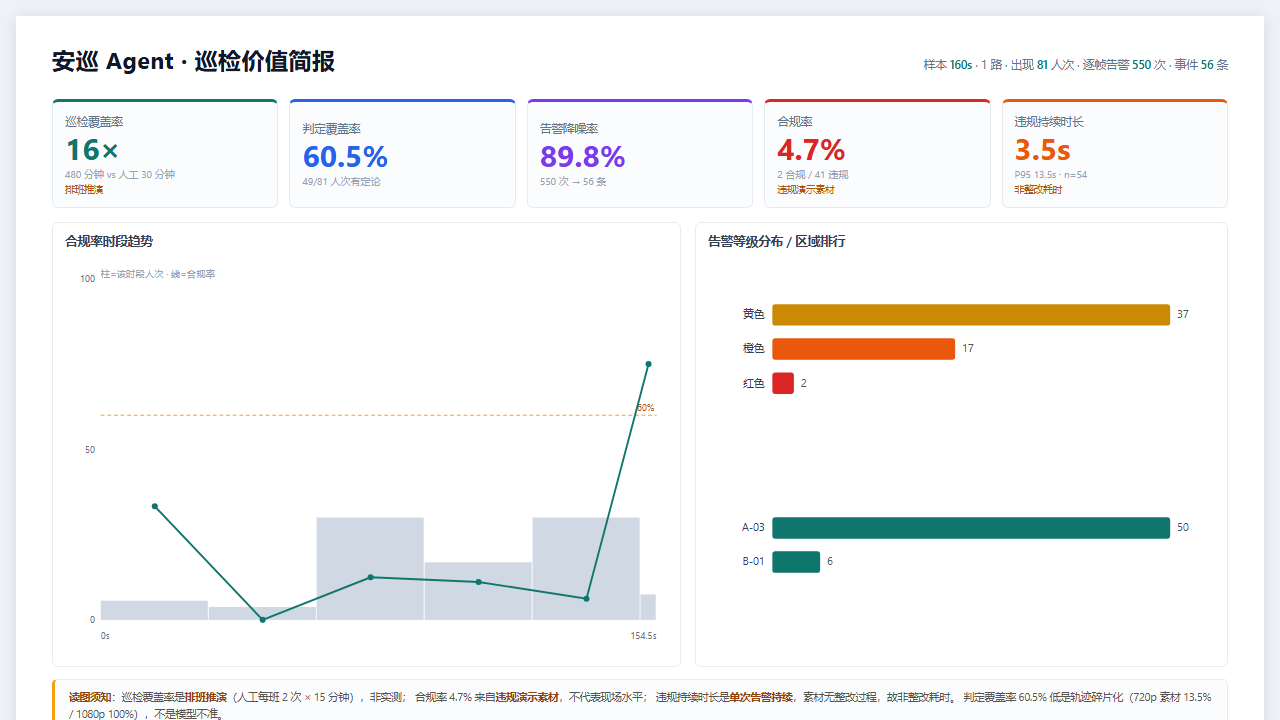
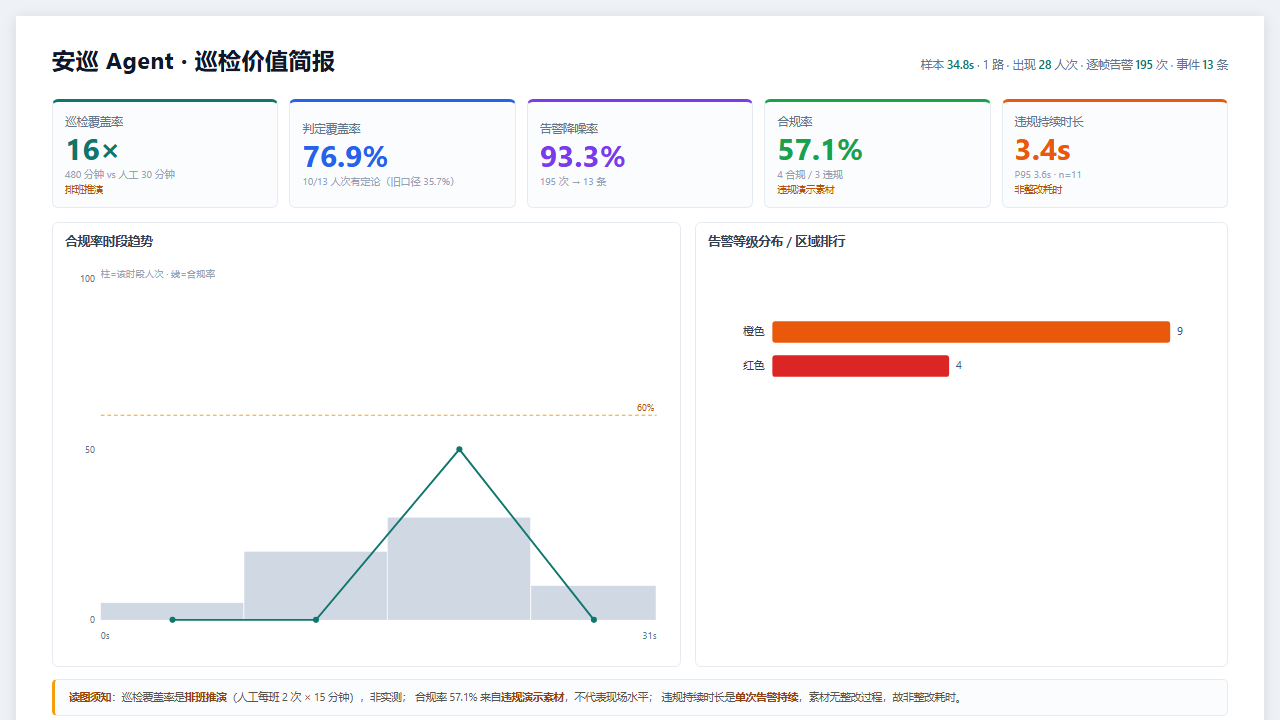
fix(techline): 价值页三处硬伤（趋势图空白 / KPI 分母错 / 说明溢出错版）
截图核过才发现的三处，都是「页面能打开、但贴到 PPT 上会被一眼看出」的问题：

## 1. 趋势图整块空白

`compute(bucket_s=30)` 写死 30 秒分桶，而素材只有 34.8 秒——只够 2 个桶，
其中一个还因为人数不足被判「样本跨度不足」，图直接空着，写着「换更长的视频」。
在 PPT 上就是一张挂掉的图。

改成自适应：目标 5–7 个桶，夹在 8–60 秒之间。34.8 秒现在出 5 个桶，折线+柱状都正常。

## 2. KPI 卡分母还是旧的

判定覆盖率印着「10/28 人次有定论」——28 是 `persons_total`（所有开过的轨迹），
而 76.9% 的分母是 13（活到三帧的轨迹）。**同一个卡片上，数字和分母各说一套。**

改成 `judged/eligible`，并把旧口径放进副标题：「10/13 人次有定论（旧口径 35.7%）」。
两个口径都在一张卡上，不用翻文档。

## 3. 底部说明溢出错版

那句「720p 素材 13.5% / 1080p 100%」是 v2.0 的说法，素材早换了。
第一版改成长文案，结果两行放不下、第二行被裁一半——比不改更糟。

最终：判定覆盖率的口径说明挪到 KPI 卡副标题（那里才是它该在的地方），
底部只留三句（巡检覆盖率推演 / 合规率素材 / 持续时长口径），一行放得下。

顺带给 `docs/figs/value_report_16x9.png`：1280×720 直出，PPT 第 15 页可以直接拖。
以后改完报告记得重出这张，别让人自己去截图。

验收 58 项：55 PASS · 0 FAIL · 3 SKIP。测试 42 条全过。

diff --git a/techline-v2.0.0/docs/figs/value_report_16x9.html b/techline-v2.0.0/docs/figs/value_report_16x9.html
@@ -45,10 +45,10 @@
   </div>
   <div class="rule"></div>
 
-  <div class="kpis"><div class="kpi" style="border-top-color:#0f766e"><div class="kpi-label">巡检覆盖率</div><div class="kpi-value" style="color:#0f766e">16×</div><div class="kpi-sub">480 分钟 vs 人工 30 分钟</div><div class="kpi-note">排班推演</div></div><div class="kpi" style="border-top-color:#2563eb"><div class="kpi-label">判定覆盖率</div><div class="kpi-value" style="color:#2563eb">76.9%</div><div class="kpi-sub">10/28 人次有定论</div></div><div class="kpi" style="border-top-color:#7c3aed"><div class="kpi-label">告警降噪率</div><div class="kpi-value" style="color:#7c3aed">93.3%</div><div class="kpi-sub">195 次 → 13 条</div></div><div class="kpi" style="border-top-color:#16a34a"><div class="kpi-label">合规率</div><div class="kpi-value" style="color:#16a34a">57.1%</div><div class="kpi-sub">4 合规 / 3 违规</div><div class="kpi-note">违规演示素材</div></div><div class="kpi" style="border-top-color:#ea580c"><div class="kpi-label">违规持续时长</div><div class="kpi-value" style="color:#ea580c">3.4s</div><div class="kpi-sub">P95 3.6s · n=11</div><div class="kpi-note">非整改耗时</div></div></div>
+  <div class="kpis"><div class="kpi" style="border-top-color:#0f766e"><div class="kpi-label">巡检覆盖率</div><div class="kpi-value" style="color:#0f766e">16×</div><div class="kpi-sub">480 分钟 vs 人工 30 分钟</div><div class="kpi-note">排班推演</div></div><div class="kpi" style="border-top-color:#2563eb"><div class="kpi-label">判定覆盖率</div><div class="kpi-value" style="color:#2563eb">76.9%</div><div class="kpi-sub">10/13 人次有定论（旧口径 35.7%）</div></div><div class="kpi" style="border-top-color:#7c3aed"><div class="kpi-label">告警降噪率</div><div class="kpi-value" style="color:#7c3aed">93.3%</div><div class="kpi-sub">195 次 → 13 条</div></div><div class="kpi" style="border-top-color:#16a34a"><div class="kpi-label">合规率</div><div class="kpi-value" style="color:#16a34a">57.1%</div><div class="kpi-sub">4 合规 / 3 违规</div><div class="kpi-note">违规演示素材</div></div><div class="kpi" style="border-top-color:#ea580c"><div class="kpi-label">违规持续时长</div><div class="kpi-value" style="color:#ea580c">3.4s</div><div class="kpi-sub">P95 3.6s · n=11</div><div class="kpi-note">非整改耗时</div></div></div>
 
   <div class="charts">
-    <div class="card"><h2>合规率时段趋势</h2><div class="empty">样本时间跨度不足，无法绘制趋势。换更长的视频或多段素材合并。</div></div>
+    <div class="card"><h2>合规率时段趋势</h2><svg viewBox="0 0 640 402" width="100%" height="402" xmlns="http://www.w3.org/2000/svg" role="img" aria-label="合规率时段趋势"><text x="38" y="12" font-size="10" fill="#94a3b8">柱=该时段人次 · 线=合规率</text><line x1="38" y1="158.8" x2="628" y2="158.8" stroke="#f59e0b" stroke-width="1" stroke-dasharray="4 3"/><text x="626" y="154.8" font-size="10" fill="#b45309" text-anchor="end">60%</text><text x="32" y="379.5" font-size="10" fill="#64748b" text-anchor="end">0</text><text x="32" y="198.5" font-size="10" fill="#64748b" text-anchor="end">50</text><text x="32" y="17.5" font-size="10" fill="#64748b" text-anchor="end">100</text><rect x="38.0" y="357.9" width="151.3" height="18.1" fill="#cfd8e3"/><rect x="190.3" y="303.6" width="151.3" height="72.4" fill="#cfd8e3"/><rect x="342.5" y="267.4" width="151.3" height="108.6" fill="#cfd8e3"/><rect x="494.8" y="339.8" width="132.2" height="36.2" fill="#cfd8e3"/><path d="M114.1,376.0 L266.4,376.0 L418.6,195.0 L561.4,376.0" fill="none" stroke="#0f766e" stroke-width="2"/><circle cx="114.1" cy="376.0" r="3.2" fill="#0f766e"/><circle cx="266.4" cy="376.0" r="3.2" fill="#0f766e"/><circle cx="418.6" cy="195.0" r="3.2" fill="#0f766e"/><circle cx="561.4" cy="376.0" r="3.2" fill="#0f766e"/><text x="38" y="396" font-size="10" fill="#64748b">0s</text><text x="628" y="396" font-size="10" fill="#64748b" text-anchor="end">31s</text></svg></div>
     <div class="card"><h2>告警等级分布 / 区域排行</h2>
       <svg viewBox="0 0 520 192" width="100%" height="192" xmlns="http://www.w3.org/2000/svg" role="img"><text x="58" y="81.0" font-size="11" fill="#334155" text-anchor="end">橙色</text><rect x="66" y="66.5" width="408.0" height="22.0" rx="3" fill="#ea580c"/><text x="481.0" y="81.0" font-size="11" fill="#475569">9</text><text x="58" y="116.0" font-size="11" fill="#334155" text-anchor="end">红色</text><rect x="66" y="101.5" width="181.3" height="22.0" rx="3" fill="#dc2626"/><text x="254.3" y="116.0" font-size="11" fill="#475569">4</text></svg>
       
@@ -59,7 +59,6 @@
     <b>读图须知</b>：巡检覆盖率是<b>排班推演</b>（人工每班 2 次 × 15 分钟），非实测；
     合规率 57.1% 来自<b>违规演示素材</b>，不代表现场水平；
     违规持续时长是<b>单次告警持续</b>，素材无整改过程，故非整改耗时。
-    判定覆盖率 76.9% 低是轨迹碎片化（720p 素材 13.5% / 1080p 100%），不是模型不准。
   </div>
 </div>
 </body>

diff --git a/techline-v2.0.0/docs/figs/value_report.html b/techline-v2.0.0/docs/figs/value_report.html
@@ -56,10 +56,10 @@
   </div>
   <div class="rule"></div>
 
-  <div class="kpis"><div class="kpi" style="border-top-color:#0f766e"><div class="kpi-label">巡检覆盖率</div><div class="kpi-value" style="color:#0f766e">16×</div><div class="kpi-sub">系统 480 分钟 vs 人工 30 分钟</div><div class="kpi-note">排班推演，非实测</div></div><div class="kpi" style="border-top-color:#2563eb"><div class="kpi-label">判定覆盖率</div><div class="kpi-value" style="color:#2563eb">76.9%</div><div class="kpi-sub">10/28 人次有定论</div></div><div class="kpi" style="border-top-color:#7c3aed"><div class="kpi-label">告警降噪率</div><div class="kpi-value" style="color:#7c3aed">93.3%</div><div class="kpi-sub">195 次逐帧告警 → 13 条事件</div></div><div class="kpi" style="border-top-color:#16a34a"><div class="kpi-label">合规率</div><div class="kpi-value" style="color:#16a34a">57.1%</div><div class="kpi-sub">4 合规 / 3 违规（n=7）</div><div class="kpi-note">素材为违规演示样本，非现场水平</div></div><div class="kpi" style="border-top-color:#ea580c"><div class="kpi-label">违规持续时长</div><div class="kpi-value" style="color:#ea580c">3.4s</div><div class="kpi-sub">P95 3.6s · 最长 3.6s · n=11</div><div class="kpi-note">素材无整改过程，非整改耗时</div></div></div>
+  <div class="kpis"><div class="kpi" style="border-top-color:#0f766e"><div class="kpi-label">巡检覆盖率</div><div class="kpi-value" style="color:#0f766e">16×</div><div class="kpi-sub">系统 480 分钟 vs 人工 30 分钟</div><div class="kpi-note">排班推演，非实测</div></div><div class="kpi" style="border-top-color:#2563eb"><div class="kpi-label">判定覆盖率</div><div class="kpi-value" style="color:#2563eb">76.9%</div><div class="kpi-sub">10/13 人次有定论（旧口径 35.7%）</div></div><div class="kpi" style="border-top-color:#7c3aed"><div class="kpi-label">告警降噪率</div><div class="kpi-value" style="color:#7c3aed">93.3%</div><div class="kpi-sub">195 次逐帧告警 → 13 条事件</div></div><div class="kpi" style="border-top-color:#16a34a"><div class="kpi-label">合规率</div><div class="kpi-value" style="color:#16a34a">57.1%</div><div class="kpi-sub">4 合规 / 3 违规（n=7）</div><div class="kpi-note">素材为违规演示样本，非现场水平</div></div><div class="kpi" style="border-top-color:#ea580c"><div class="kpi-label">违规持续时长</div><div class="kpi-value" style="color:#ea580c">3.4s</div><div class="kpi-sub">P95 3.6s · 最长 3.6s · n=11</div><div class="kpi-note">素材无整改过程，非整改耗时</div></div></div>
 
   <div class="charts">
-    <div class="card"><h2>合规率时段趋势</h2><div class="empty">样本时间跨度不足，无法绘制趋势。换更长的视频或多段素材合并。</div></div>
+    <div class="card"><h2>合规率时段趋势</h2><svg viewBox="0 0 560 190" width="100%" height="190" xmlns="http://www.w3.org/2000/svg" role="img" aria-label="合规率时段趋势"><text x="38" y="12" font-size="10" fill="#94a3b8">柱=该时段人次 · 线=合规率</text><line x1="38" y1="74.0" x2="548" y2="74.0" stroke="#f59e0b" stroke-width="1" stroke-dasharray="4 3"/><text x="546" y="70.0" font-size="10" fill="#b45309" text-anchor="end">60%</text><text x="32" y="167.5" font-size="10" fill="#64748b" text-anchor="end">0</text><text x="32" y="92.5" font-size="10" fill="#64748b" text-anchor="end">50</text><text x="32" y="17.5" font-size="10" fill="#64748b" text-anchor="end">100</text><rect x="38.0" y="156.5" width="130.6" height="7.5" fill="#cfd8e3"/><rect x="169.6" y="134.0" width="130.6" height="30.0" fill="#cfd8e3"/><rect x="301.2" y="119.0" width="130.6" height="45.0" fill="#cfd8e3"/><rect x="432.8" y="149.0" width="114.2" height="15.0" fill="#cfd8e3"/><path d="M103.8,164.0 L235.4,164.0 L367.0,89.0 L490.4,164.0" fill="none" stroke="#0f766e" stroke-width="2"/><circle cx="103.8" cy="164.0" r="3.2" fill="#0f766e"/><circle cx="235.4" cy="164.0" r="3.2" fill="#0f766e"/><circle cx="367.0" cy="89.0" r="3.2" fill="#0f766e"/><circle cx="490.4" cy="164.0" r="3.2" fill="#0f766e"/><text x="38" y="184" font-size="10" fill="#64748b">0s</text><text x="548" y="184" font-size="10" fill="#64748b" text-anchor="end">31s</text></svg></div>
     <div class="card"><h2>告警等级分布 / 区域排行</h2>
       <svg viewBox="0 0 460 88" width="100%" height="88" xmlns="http://www.w3.org/2000/svg" role="img"><text x="58" y="29.0" font-size="11" fill="#334155" text-anchor="end">橙色</text><rect x="66" y="14.5" width="348.0" height="22.0" rx="3" fill="#ea580c"/><text x="421.0" y="29.0" font-size="11" fill="#475569">9</text><text x="58" y="64.0" font-size="11" fill="#334155" text-anchor="end">红色</text><rect x="66" y="49.5" width="154.7" height="22.0" rx="3" fill="#dc2626"/><text x="227.7" y="64.0" font-size="11" fill="#475569">4</text></svg>
       

diff --git a/techline-v2.0.0/src/anxun/report.py b/techline-v2.0.0/src/anxun/report.py
@@ -179,7 +179,8 @@ def render(vm: dict, events: list[dict] | None = None) -> str:
                  f"系统 {cov['system_minutes']:g} 分钟 vs 人工 {cov['manual_minutes']:g} 分钟",
                  "#0f766e", note="排班推演，非实测"),
         kpi_card("判定覆盖率", _pct(ver["value"]),
-                 f"{ver['judged']}/{ver['persons_total']} 人次有定论", "#2563eb"),
+                 f"{ver['judged']}/{ver.get('eligible') or ver['persons_total']} 人次有定论"
+                 f"（旧口径 {_pct(ver.get('value_raw'))}）", "#2563eb"),
         kpi_card("告警降噪率", _pct(den["value"]),
                  f"{den['raw']} 次逐帧告警 → {den['events']} 条事件", "#7c3aed"),
         kpi_card("合规率", _pct(comp["value"]),
@@ -342,7 +343,8 @@ def render_slide(vm: dict, events: list[dict] | None = None) -> str:
                  f"{cov['system_minutes']:g} 分钟 vs 人工 {cov['manual_minutes']:g} 分钟",
                  "#0f766e", note="排班推演"),
         kpi_card("判定覆盖率", _pct(ver["value"]),
-                 f"{ver['judged']}/{ver['persons_total']} 人次有定论", "#2563eb"),
+                 f"{ver['judged']}/{ver.get('eligible') or ver['persons_total']} 人次有定论"
+                 f"（旧口径 {_pct(ver.get('value_raw'))}）", "#2563eb"),
         kpi_card("告警降噪率", _pct(den["value"]),
                  f"{den['raw']} 次 → {den['events']} 条", "#7c3aed"),
         kpi_card("合规率", _pct(comp["value"]),
@@ -428,7 +430,6 @@ def render_slide(vm: dict, events: list[dict] | None = None) -> str:
     <b>读图须知</b>：巡检覆盖率是<b>排班推演</b>（人工每班 2 次 × 15 分钟），非实测；
     合规率 {_pct(comp['value'])} 来自<b>违规演示素材</b>，不代表现场水平；
     违规持续时长是<b>单次告警持续</b>，素材无整改过程，故非整改耗时。
-    判定覆盖率 {_pct(ver['value'])} 低是轨迹碎片化（720p 素材 13.5% / 1080p 100%），不是模型不准。
   </div>
 </div>
 </body>

diff --git a/techline-v2.0.0/src/anxun/stats.py b/techline-v2.0.0/src/anxun/stats.py
@@ -369,7 +369,7 @@ def trend(ledger: list[dict], bucket_s: float = 30.0) -> list[dict]:
 
 def compute(bundles: list[dict], *, hours: float = 8.0,
             manual_times: float = 2, manual_minutes: float = 15,
-            bucket_s: float = 30.0, streams: int | None = None) -> dict:
+            bucket_s: float = 0.0, streams: int | None = None) -> dict:
     """把 N 份事件文件算成一份价值指标。
 
     `streams` 不传时按账本里的 stream 名去重计数：单路 stream.py 跑几段都是
@@ -378,6 +378,11 @@ def compute(bundles: list[dict], *, hours: float = 8.0,
     """
     m = merge(bundles)
     st = m["stats"]
+    # 分桶宽度自适应：固定 30 秒会让短片只有 1–2 个桶，趋势图画不出来（v2.1.0 修）
+    # 目标 5–7 个桶，夹在 8–60 秒之间——太细噪声大，太粗看不出走势。
+    if not bucket_s:
+        video_s = float(st.get("video_s") or 60.0)
+        bucket_s = max(8.0, min(60.0, round(video_s / 6)))
     n_streams = int(streams) if streams else max(1, int(st.get("streams") or 1))
     return {
         "schema": SCHEMA,
